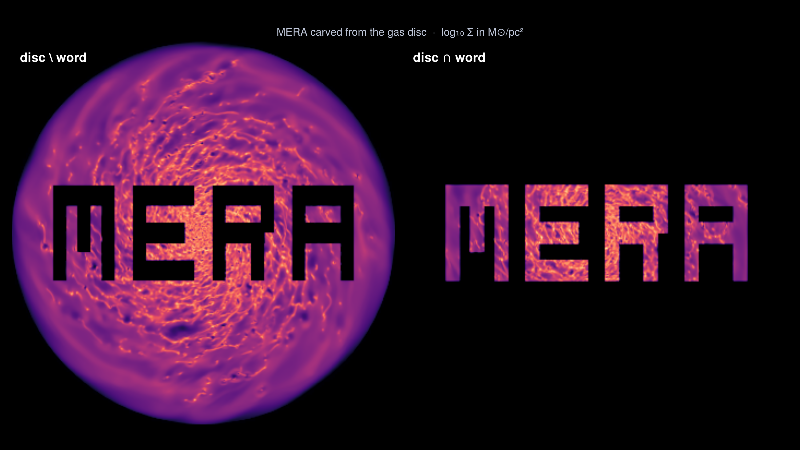
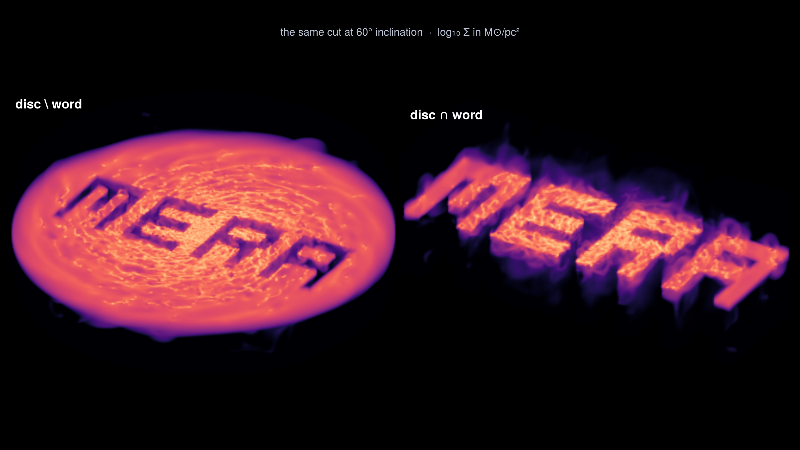
docs(gallery): tilted view on the recipe card
The 60-degree view shows the letters have depth, which reads better at
card size than the face-on pair.

diff --git a/docs/src/gallery.md b/docs/src/gallery.md
@@ -26,11 +26,11 @@ run it.
 
 <a class="gallery-card" href="https://github.com/ManuelBehrendt/Notebooks/tree/master/Mera-Docs/version_1.1/gallery/002_word_in_a_galaxy">
   <img src="assets/gallery/word_in_a_galaxy_thumb.png"
-       alt="The word MERA cut out of a galactic gas disc, beside the same letters kept as the only gas">
+       alt="The word MERA cut out of a galactic gas disc seen at 60 degrees, beside the same letters kept as the only gas">
   <span class="gallery-title">Cutting a word out of a galaxy</span>
   <span class="gallery-meta">RAMSES · region algebra as a stencil: letters built from cuboids,
-  unioned into one word, then subtracted from the disc and intersected with it, face-on and
-  tilted to 60°</span>
+  unioned into one word, then subtracted from the disc and intersected with it, face-on, tilted to
+  60° and repeated on the stars</span>
 </a>
 
 </div>
